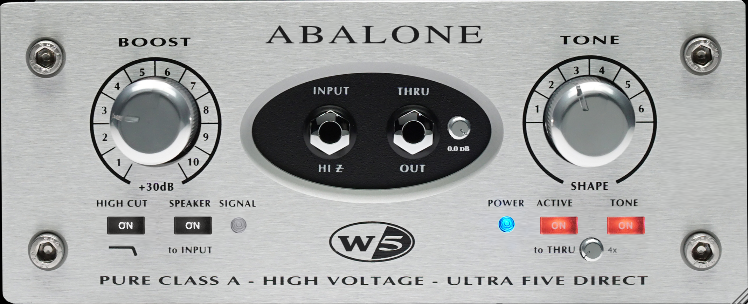
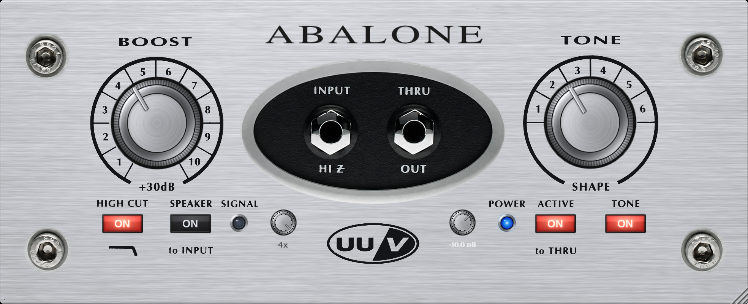
feat: reskin editor on redesigned UUV assets

diff --git a/src/PluginEditor.cpp b/src/PluginEditor.cpp
@@ -24,7 +24,7 @@ juce::Font makePlateFont (float height)
     return juce::Font (juce::FontOptions (height));
 }
 
-// Parses the embedded ui/component_positions.csv into name -> ratio rect.
+// Parses the embedded ui/new_ui/positions.csv into name -> ratio rect.
 // Runs once on the message thread at construction; no audio-thread use.
 std::map<juce::String, juce::Rectangle<float>> parseLayoutCsv (const char* data, int size)
 {
@@ -105,47 +105,53 @@ AbaloneW5AudioProcessorEditor::AbaloneW5AudioProcessorEditor (AbaloneW5AudioProc
 {
     // PNG skins + layout CSV are decoded/parsed once here on the message
     // thread, never on audio.
-    faceImage = imageFromBinary (BinaryData::u5_front_clean_png, BinaryData::u5_front_clean_pngSize);
-    boostDialLookAndFeel.bodyImage =
-        imageFromBinary (BinaryData::knob_boost_no_pointer_png, BinaryData::knob_boost_no_pointer_pngSize);
-    toneDialLookAndFeel.bodyImage =
-        imageFromBinary (BinaryData::knob_tone_no_pointer_png, BinaryData::knob_tone_no_pointer_pngSize);
+    faceImage =
+        imageFromBinary (BinaryData::uuv_front_clean_redesigned_png, BinaryData::uuv_front_clean_redesigned_pngSize);
+    boostDialLookAndFeel.bodyImage = imageFromBinary (BinaryData::knob_boost_no_pointer_redesigned_png,
+                                                      BinaryData::knob_boost_no_pointer_redesigned_pngSize);
+    toneDialLookAndFeel.bodyImage = imageFromBinary (BinaryData::knob_tone_no_pointer_redesigned_png,
+                                                     BinaryData::knob_tone_no_pointer_redesigned_pngSize);
     // TRIM is the one deliberate addition: a mini-knob in the same chrome
     // family (tone art scaled down) with the tone pointer.
     trimDialLookAndFeel.bodyImage = toneDialLookAndFeel.bodyImage;
     boostDialLookAndFeel.pointerImage =
-        imageFromBinary (BinaryData::pointer_boost_png, BinaryData::pointer_boost_pngSize);
-    toneDialLookAndFeel.pointerImage = imageFromBinary (BinaryData::pointer_tone_png, BinaryData::pointer_tone_pngSize);
-    trimDialLookAndFeel.pointerImage = imageFromBinary (BinaryData::pointer_trim_png, BinaryData::pointer_trim_pngSize);
-    toggleLookAndFeel.onImage = imageFromBinary (BinaryData::button_on_png, BinaryData::button_on_pngSize);
-    toggleLookAndFeel.offImage = imageFromBinary (BinaryData::button_off_png, BinaryData::button_off_pngSize);
-    ledOnImage = imageFromBinary (BinaryData::led_on_png, BinaryData::led_on_pngSize);
-    ledOffImage = imageFromBinary (BinaryData::led_off_png, BinaryData::led_off_pngSize);
+        imageFromBinary (BinaryData::pointer_boost_redesigned_png, BinaryData::pointer_boost_redesigned_pngSize);
+    toneDialLookAndFeel.pointerImage =
+        imageFromBinary (BinaryData::pointer_tone_redesigned_png, BinaryData::pointer_tone_redesigned_pngSize);
+    trimDialLookAndFeel.pointerImage =
+        imageFromBinary (BinaryData::pointer_trim_redesigned_png, BinaryData::pointer_trim_redesigned_pngSize);
+    toggleLookAndFeel.onImage =
+        imageFromBinary (BinaryData::button_on_redesigned_png, BinaryData::button_on_redesigned_pngSize);
+    toggleLookAndFeel.offImage =
+        imageFromBinary (BinaryData::button_off_redesigned_png, BinaryData::button_off_redesigned_pngSize);
+    ledOnImage = imageFromBinary (BinaryData::led_on_redesigned_png, BinaryData::led_on_redesigned_pngSize);
+    ledOffImage = imageFromBinary (BinaryData::led_off_redesigned_png, BinaryData::led_off_redesigned_pngSize);
 
-    layoutRatios = parseLayoutCsv (BinaryData::component_positions_csv, BinaryData::component_positions_csvSize);
+    layoutRatios = parseLayoutCsv (BinaryData::positions_csv, BinaryData::positions_csvSize);
 
-    // Needle sweeps, clockwise-from-12, fitted against the baked tick RAYS
-    // (re-measured fix round 3: radial min-dark scan, 0.1deg steps, r118-165;
-    // end ticks exact, detents land exactly on them with zero overtravel).
-    // Boost 1->209.0deg, 10->150.5deg (plateau centers 208.9/150.6, within
-    // 0.1deg — sub-pixel at tick radius); tone 1->268.3deg, 6->91.3deg.
-    // Photo perspective leaves mid-scale residuals a linear slider cannot
-    // follow. TRIM has no printed scale at its oval spot, so it keeps the
-    // conventional 7-to-5-o'clock sweep.
-    boostDialLookAndFeel.needleStartDeg = 209.0f;
-    boostDialLookAndFeel.needleSweepDeg = 301.5f;
-    toneDialLookAndFeel.needleStartDeg = 268.3f;
-    toneDialLookAndFeel.needleSweepDeg = 183.0f;
+    // Needle geometry, fitted against the NEW (redesigned) dial rings
+    // (radial tick-center scans, 0.05deg steps; ring-stroke circle fits on
+    // ~7500 pixels each: boost cx=412.1 cy=324.0 r=170.6, tone cx=1554.6
+    // cy=322.5 r=173.0). Both rings print detent ticks on a 30-degree clock
+    // grid with a decorative top tick (boost: 11 ticks, tone: 7), so a
+    // linear needle cannot land on ticks — each detent gets its measured
+    // tick center instead (entries past top stored unwrapped; see
+    // PhotoDialLookAndFeel). Boost 1-10 skips the top tick (detents 210.5
+    // to 510.1=150.1); tone 1-6 likewise (270.2 to 449.6=89.6). TRIM has no
+    // printed scale at its oval spot, so it keeps the conventional
+    // 7-to-5-o'clock sweep; OS keeps the shared trim sweep.
+    boostDialLookAndFeel.detentDeg = {210.5f, 239.9f, 270.2f, 300.0f, 329.5f, 389.6f, 419.8f, 449.8f, 479.8f, 510.1f};
+    toneDialLookAndFeel.detentDeg = {270.2f, 300.1f, 330.1f, 390.0f, 419.8f, 449.6f};
     trimDialLookAndFeel.needleStartDeg = 225.0f;
     trimDialLookAndFeel.needleSweepDeg = 270.0f;
 
-    // Rotation axles, fractions of the 224px knob frame (rim-circle fits of
-    // the photo art — not the frame centers — so the pointer pivots about
-    // the knob's own axle).
-    boostDialLookAndFeel.pivotX = 107.9f / 224.0f;
-    boostDialLookAndFeel.pivotY = 111.6f / 224.0f;
-    toneDialLookAndFeel.pivotX = 113.2f / 224.0f;
-    toneDialLookAndFeel.pivotY = 113.0f / 224.0f;
+    // Rotation axles, fractions of the 224px knob frame (pointer-ink axis
+    // fits: boost needle dead vertical at x=106.0 tip and tail, tone at
+    // x=112.2; body circles fit dead-center at 111.5, so y=111.5 both).
+    boostDialLookAndFeel.pivotX = 106.0f / 224.0f;
+    boostDialLookAndFeel.pivotY = 111.5f / 224.0f;
+    toneDialLookAndFeel.pivotX = 112.2f / 224.0f;
+    toneDialLookAndFeel.pivotY = 111.5f / 224.0f;
     trimDialLookAndFeel.pivotX = toneDialLookAndFeel.pivotX;
     trimDialLookAndFeel.pivotY = toneDialLookAndFeel.pivotY;
 
@@ -401,23 +407,23 @@ void AbaloneW5AudioProcessorEditor::paint (juce::Graphics& g)
     drawOsLabels (g, scaledRect (layoutRatios, "os_dial", w, h), scale);
 }
 
-// OS factor readout, immediately right of the OS mini-knob: ONE live label
-// showing the current `osfactor` value only ("1x"/"2x"/"4x"), vertically
-// centered on the knob in the dark plate caption colour. It reads the same
-// raw Choice index the DSP path reads (clamped identically), so the label
-// can never disagree with the audio factor. Glyph size matches the baked
-// to-THRU caption beside it: THRU caps span texture rows 703-720 = 18px
-// cap-height (measured), i.e. ~6.3 editor px at 1x; a 9px default-sans face
-// (cap ratio ~0.7) lands at ~6.3px cap — same cap-height, not eyeballed.
+// OS factor readout, centered UNDER the OS mini-knob: ONE live label
+// showing the current `osfactor` value only ("1x"/"2x"/"4x") in the dark
+// plate caption colour. It reads the same raw Choice index the DSP path
+// reads (clamped identically), so the label can never disagree with the
+// audio factor. Glyph size matches the baked to-THRU caption: THRU caps
+// span 18 texture px (~6.9 editor px at 1x); a 10px default-sans face (cap
+// ratio ~0.7) lands at ~7.0px cap — same cap-height, not eyeballed.
 void AbaloneW5AudioProcessorEditor::drawOsLabels (juce::Graphics& g, juce::Rectangle<int> knob, float scale) const
 {
     const int osIndex = static_cast<int> (std::round (processor.getApvts().getRawParameterValue ("osfactor")->load()));
     const char* text = (osIndex <= 0) ? "1x" : (osIndex == 1) ? "2x" : "4x";
-    g.setFont (juce::Font (juce::FontOptions (9.0f * scale)));
+    g.setFont (juce::Font (juce::FontOptions (10.0f * scale)));
     g.setColour (juce::Colour (0xff2e3234));
-    const int x = knob.getRight() + juce::roundToInt (4.0f * scale);
-    const int lw = juce::roundToInt (20.0f * scale);
-    g.drawText (text, x, knob.getY(), lw, knob.getHeight(), juce::Justification::centredLeft, false);
+    const int lw = juce::roundToInt (40.0f * scale);
+    const int lh = juce::roundToInt (13.0f * scale);
+    g.drawText (text, knob.getX() + knob.getWidth() / 2 - lw / 2, knob.getBottom() + juce::roundToInt (2.0f * scale),
+                lw, lh, juce::Justification::centred, false);
 }
 
 void AbaloneW5AudioProcessorEditor::resized ()

diff --git a/src/PluginEditor.h b/src/PluginEditor.h
@@ -2,6 +2,7 @@
 
 #include <map>
 #include <memory>
+#include <vector>
 
 #include <juce_audio_processors/juce_audio_processors.h>
 
@@ -31,18 +32,25 @@ class AbaloneW5AudioProcessor;
 //   LED is a mains lamp — always lit while the plugin is open, painted
 //   UNDER the veil with everything else so it dims naturally while
 //   bypassed; the SIGNAL LED follows the input peak while bypassed.
-// - Photo knob bodies (knob_*_no_pointer.png) are NEVER rotated: baked
-//   off-axis highlights + edge dial-numeral fragments would swing. Bodies
-//   are drawn static and circular-clipped; value is shown by the extracted
-//   photo pointer (pointer_*.png: tight offline crop of the baked pointer
-//   from knob_*.png, straightened to 12 o'clock, pivot = rim-fit axle)
-//   rotated about the measured pivot — true to hardware and immune to skew.
+// - Knob bodies (knob_*_no_pointer_redesigned.png) are NEVER rotated:
+//   baked highlights would swing. Bodies are drawn static and
+//   circular-clipped; value is shown by the extracted pointer
+//   (pointer_*_redesigned.png, straightened to 12 o'clock about the art
+//   axle) rotated about the measured pivot — true to hardware.
 
 // Rotary look-and-feel: static photo knob body + extracted photo pointer.
-// The slider bounds ARE the knob frame; `needleStartDeg`/`needleSweepDeg`
-// are clockwise-from-12, fitted against tick RAYS (see
-// component_positions.csv). `pivotX/Y` is the rotation axle as a fraction
-// of the slider bounds (rim-circle fit per knob art, not the frame center).
+// The slider bounds ARE the knob frame; `pivotX/Y` is the rotation axle as a
+// fraction of the slider bounds (axle fit per knob art, not the frame
+// center). Two needle modes: legacy linear (`needleStartDeg` +
+// sliderPos * `needleSweepDeg`, clockwise-from-12) when `detentDeg` is empty,
+// or an exact per-detent table (one clockwise-from-12 entry per integer
+// slider value; entries past a 0-degree crossing are stored unwrapped, e.g.
+// 389.6 for 29.6, so interpolation never swings backwards; fractional
+// positions interpolate between entries). The redesigned UUV dial rings
+// print their detent ticks on a 30-degree clock grid with a decorative top
+// tick, so no linear 10-/6-position needle can land on ticks (residuals up
+// to 10 degrees); boost/tone carry tables fitted against tick centers (see
+// ui/new_ui/positions.csv), trim/OS stay linear (no printed scale).
 struct PhotoDialLookAndFeel : public juce::LookAndFeel_V4
 {
     juce::Image bodyImage;
@@ -51,6 +59,24 @@ struct PhotoDialLookAndFeel : public juce::LookAndFeel_V4
     float pivotY = 0.5f;
     float needleStartDeg = 225.0f;
     float needleSweepDeg = 270.0f;
+    std::vector<float> detentDeg;
+
+    float needleAngleFor (float sliderPos) const
+    {
+        if (detentDeg.size() >= 2)
+        {
+            const float last = static_cast<float> (detentDeg.size() - 1);
+            const float p = juce::jlimit (0.0f, last, sliderPos * last);
+            const size_t i = static_cast<size_t> (p);
+            const size_t j = juce::jmin (i + 1, detentDeg.size() - 1);
+            const float a = detentDeg[i];
+            float b = detentDeg[j];
+            if (b < a)
+                b += 360.0f;
+            return a + (b - a) * (p - static_cast<float> (i));
+        }
+        return needleStartDeg + sliderPos * needleSweepDeg;
+    }
 
     void drawRotarySlider (juce::Graphics& g, int x, int y, int width, int height, float sliderPos,
                            float /*rotaryStartAngle*/, float /*rotaryEndAngle*/, juce::Slider&) override
@@ -81,7 +107,7 @@ struct PhotoDialLookAndFeel : public juce::LookAndFeel_V4
             // Extracted photo pointer, rotated about the measured axle. The
             // art points at 12 o'clock at rotation 0, so the rotation angle
             // IS the needle angle (clockwise-from-12, y-down screen space).
-            const float angle = (needleStartDeg + sliderPos * needleSweepDeg) * juce::MathConstants<float>::pi / 180.0f;
+            const float angle = needleAngleFor (sliderPos) * juce::MathConstants<float>::pi / 180.0f;
             g.saveState();
             g.addTransform (juce::AffineTransform::rotation (angle, fx + pivotX * static_cast<float> (width),
                                                              fy + pivotY * static_cast<float> (height)));
@@ -131,15 +157,14 @@ public:
 private:
     void timerCallback () override;
 
-    // OS factor label, painted in-code immediately right of the OS
-    // mini-knob: ONE live readout (current `osfactor` value only),
-    // vertically centered on the knob.
+    // OS factor label, painted in-code centered UNDER the OS mini-knob:
+    // ONE live readout (current `osfactor` value only).
     void drawOsLabels (juce::Graphics& g, juce::Rectangle<int> knobBounds, float scale) const;
 
     // -2dBFS signal-present threshold (spec: LED is signal-present, not clip).
     static constexpr float kLedThreshold = 0.79432823f; // 10^(-2/20).
 
-    // Editor is aspect-locked to the base texture (2136x867 faceplate-only)
+    // Editor is aspect-locked to the base texture (1969x799 faceplate)
     // and corner-drag resizable from 1x to 2x; every live element lays out
     // from CSV texture ratios in resized(), so the faceplate scales clean.
     static constexpr int kEditorWidth = 748;
@@ -161,7 +186,7 @@ private:
                                // black oval right of the THRU jack (see CSV trim_dial).
     juce::Slider osSlider;     // attached to the `osfactor` Choice (1x/2x/4x);
                                // 3-position mini-knob in the trim art family,
-                               // between ACTIVE and TONE at to-THRU height
+                               // between the SIGNAL LED and the UUV oval
                                // (see CSV os_dial). Knob drag + host automation
                                // both drive it via the attachment.
     juce::Label trimReadout;   // in-code dB readout below the trim knob (pale
@@ -193,7 +218,7 @@ private:
     juce::Font readoutFont;
 
     // Layout rects as texture ratios, parsed from
-    // ui/component_positions.csv (embedded as BinaryData) at construction.
+    // ui/new_ui/positions.csv (embedded as BinaryData) at construction.
     std::map<juce::String, juce::Rectangle<float>> layoutRatios;
 
     std::unique_ptr<juce::AudioProcessorValueTreeState::SliderAttachment> boostAttachment;
